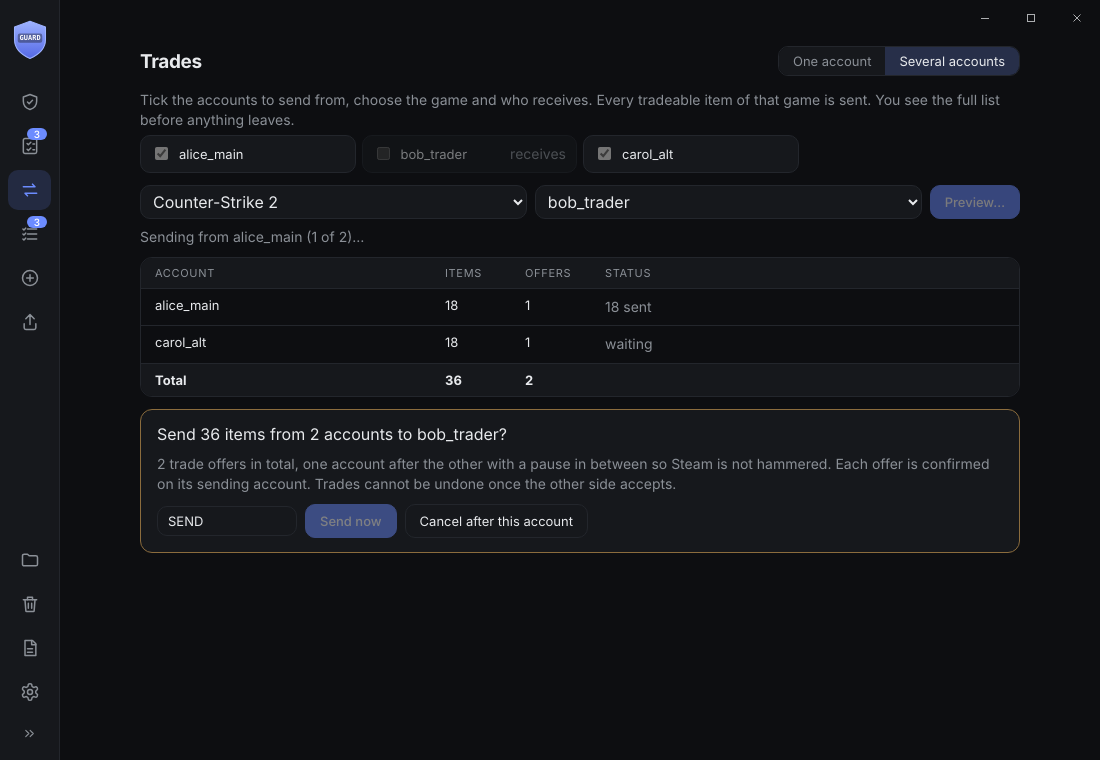
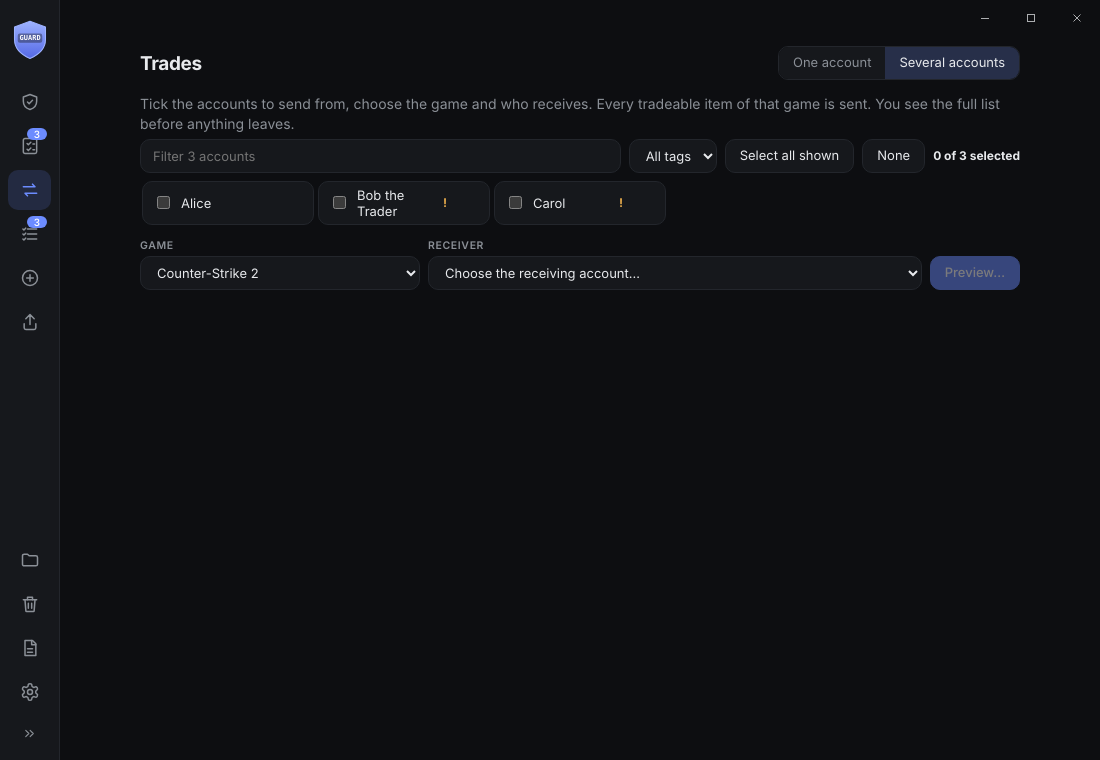
One control size everywhere, fix confirmations layout, new screenshots
Claude-Session: https://claude.ai/code/session_01DW1HzNu7DPUhuZ6F8TPH3n

diff --git a/src/renderer/style.css b/src/renderer/style.css
@@ -63,15 +63,12 @@ button:disabled { opacity: 0.45; cursor: default; }
 button:focus-visible, .row:focus-visible, input:focus-visible, select:focus-visible {
 	outline: 2px solid var(--accent); outline-offset: 2px;
 }
-.icon { width: 36px; height: 36px; border-radius: var(--radius); font-size: 18px; color: var(--muted); }
+.icon { border-radius: var(--radius); font-size: 18px; color: var(--muted); }
 .icon:hover:not(:disabled) { background: var(--surface); color: var(--text); }
 .link { color: var(--muted); font-size: 12px; }
 .link:hover { color: var(--text); text-decoration: underline; }
-.primary { background: var(--accent); color: #fff; padding: 12px 20px; border-radius: var(--radius); font-weight: 500; }
-.small {
-	padding: 8px 14px; border-radius: var(--radius); font-size: 13px;
-	border: 1px solid var(--line); background: var(--surface);
-}
+.primary { background: var(--accent); color: #fff; font-weight: 500; }
+.small { border: 1px solid var(--line); background: var(--surface); }
 .small:hover:not(:disabled) { border-color: var(--muted); }
 .small.primary { background: var(--accent); border-color: var(--accent); color: #fff; }
 .small.danger { color: var(--danger); }
@@ -163,7 +160,7 @@ button.flag { cursor: pointer; }
 /* detail */
 .profile { display: flex; align-items: center; gap: 12px; padding: 8px 0 4px; }
 .chips { display: flex; flex-wrap: wrap; gap: 6px; margin: 10px 0 4px; }
-.chip { padding: 8px 14px; background: var(--surface); font-size: 12px; border: 1px solid var(--line); border-radius: 999px; color: var(--muted); }
+.chip { background: var(--surface); border: 1px solid var(--line); color: var(--muted); }
 .chip:hover { color: var(--text); border-color: var(--muted); }
 .section-head { display: flex; align-items: center; justify-content: space-between; margin-top: 14px; }
 h2 { font-size: 11px; font-weight: 600; letter-spacing: 0.06em; text-transform: uppercase; color: var(--muted); margin: 14px 0 6px; }
@@ -199,10 +196,7 @@ h2 { font-size: 11px; font-weight: 600; letter-spacing: 0.06em; text-transform: 
 .folders li { display: flex; align-items: center; justify-content: space-between; gap: 6px; }
 .path { font-size: 12px; color: var(--muted); overflow: hidden; text-overflow: ellipsis; white-space: nowrap; direction: rtl; text-align: left; }
 .fine { margin-top: 14px; font-size: 12px; }
-select {
-	font: inherit; color: inherit; background: var(--surface);
-	border: 1px solid var(--line); border-radius: var(--radius); padding: 5px 8px;
-}
+select { font: inherit; color: inherit; background: var(--surface); border: 1px solid var(--line); }
 .switch {
 	position: relative; width: 36px; height: 20px; flex: none; border-radius: 999px;
 	background: var(--line); transition: background 0.15s;
@@ -255,7 +249,7 @@ input[type='password'], input[type='text'], textarea.lines {
 .filterbar[hidden] { display: none; }
 .search { width: 100%; }
 .filters { display: flex; gap: 6px; }
-.fchip { padding: 5px 12px; font-size: 13px; border: 1px solid var(--line); border-radius: 999px; color: var(--muted); background: var(--surface); }
+.fchip { border: 1px solid var(--line); color: var(--muted); background: var(--surface); }
 .fchip:hover { color: var(--text); }
 .fchip.on { background: var(--accent); border-color: var(--accent); color: #fff; }
 .center-text { text-align: center; margin-top: 24px; }
@@ -347,7 +341,7 @@ h2 { margin: 24px 0 10px; }
 .avatar.clickable:hover { outline: 2px solid var(--accent); }
 .acc-actions .hint { margin: 0 0 0 auto; }
 .seg-group { margin-left: auto; display: inline-flex; border: 1px solid var(--line); border-radius: 10px; overflow: hidden; flex: none; }
-.seg { background: var(--surface); color: var(--muted); border: 0; padding: 6px 10px; font-size: 14px; cursor: pointer; }
+.seg { background: var(--surface); color: var(--muted); border: 0; cursor: pointer; }
 .seg.on { background: color-mix(in srgb, var(--accent) 20%, var(--surface)); color: var(--text); }
 
 /* log */
@@ -438,7 +432,6 @@ label.f .hint.fine { margin: 0; font-size: 12px; }
 .update-note .row-actions { justify-content: flex-end; }
 
 .filter-line { display: flex; align-items: center; justify-content: space-between; gap: 10px; flex-wrap: wrap; }
-.filterbar select.sort { width: auto; font-size: 13px; padding: 5px 10px; border-radius: 999px; color: var(--muted); }
 
 /* menu icons, context menu, settings extras */
 .mini-row { display: flex; justify-content: flex-end; gap: 2px; padding: 4px 6px 0; }
@@ -513,41 +506,41 @@ button:active:not(:disabled) { transform: scale(.97); }
 
 /* ------------------------------------------------------------ settings tabs -- */
 .tabs { display: flex; flex-wrap: wrap; gap: 4px; padding: 4px; margin-bottom: 8px; background: var(--surface); border: 1px solid var(--line); border-radius: 12px; }
-.tab { padding: 6px 12px; border-radius: 8px; font-size: 13px; color: var(--muted); }
+.tab { border-radius: 7px; color: var(--muted); }
 .tab:hover { color: var(--text); background: var(--raised); }
 .tab.on { color: var(--text); background: color-mix(in srgb, var(--accent) 22%, var(--surface)); }
 .tab-page { animation: rise .22s cubic-bezier(.2,.7,.2,1); }
 .seg-group.text { margin-left: 0; }
-.seg-group.text .seg { font-size: 13px; padding: 6px 14px; }
+.seg-group.text .seg { padding: 0 14px; }
 
 /* -------------------------------------------------------------- send items -- */
 .send-bar { display: flex; gap: 8px; align-items: center; flex-wrap: wrap; margin-bottom: 8px; }
-.send-bar .search { flex: 1; min-width: 140px; }
-.items { display: grid; grid-template-columns: repeat(auto-fill, minmax(104px, 1fr)); gap: 8px; max-height: 46vh; overflow-y: auto; padding: 2px; margin: 6px 0 12px; }
-.item { position: relative; display: flex; flex-direction: column; align-items: center; gap: 4px; padding: 8px 6px 6px; background: var(--surface); border: 1px solid var(--line); border-radius: 10px; text-align: center; }
-.item:hover { border-color: color-mix(in srgb, var(--accent) 50%, var(--line)); }
-.item.on { border-color: var(--accent); background: color-mix(in srgb, var(--accent) 16%, var(--surface)); }
-.item.part { border-color: color-mix(in srgb, var(--accent) 55%, var(--line)); border-style: dashed; }
-.item img, .item .noimg { width: 64px; height: 48px; object-fit: contain; }
-.item .noimg { display: flex; align-items: center; justify-content: center; color: var(--muted); }
-.item .iname { font-size: 11px; line-height: 1.25; max-height: 2.5em; overflow: hidden; word-break: break-word; }
-.item .qty { position: absolute; top: 5px; right: 6px; font-size: 11px; font-weight: 650; padding: 1px 6px; border-radius: 999px; background: var(--bg); border: 1px solid var(--line); }
-.item.on::after { content: '✓'; position: absolute; top: 4px; left: 6px; font-size: 12px; color: var(--accent); }
+.send-bar .labelled input, .send-bar .labelled select, .send-to .labelled select { width: 100%; }
+.tiles { display: grid; grid-template-columns: repeat(auto-fill, minmax(104px, 1fr)); gap: 8px; max-height: 46vh; overflow-y: auto; padding: 2px; margin: 6px 0 12px; }
+.tile { position: relative; display: flex; flex-direction: column; align-items: center; gap: 4px; padding: 8px 6px 6px; background: var(--surface); border: 1px solid var(--line); border-radius: 10px; text-align: center; }
+.tile:hover { border-color: color-mix(in srgb, var(--accent) 50%, var(--line)); }
+.tile.on { border-color: var(--accent); background: color-mix(in srgb, var(--accent) 16%, var(--surface)); }
+.tile.part { border-color: color-mix(in srgb, var(--accent) 55%, var(--line)); border-style: dashed; }
+.tile img, .tile .noimg { width: 64px; height: 48px; object-fit: contain; }
+.tile .noimg { display: flex; align-items: center; justify-content: center; color: var(--muted); }
+.tile .iname { font-size: 11px; line-height: 1.25; max-height: 2.5em; overflow: hidden; word-break: break-word; }
+.tile .qty { position: absolute; top: 5px; right: 6px; font-size: 11px; font-weight: 650; padding: 1px 6px; border-radius: 999px; background: var(--bg); border: 1px solid var(--line); }
+.tile.on::after { content: '✓'; position: absolute; top: 4px; left: 6px; font-size: 12px; color: var(--accent); }
 .send-to { display: flex; gap: 8px; align-items: center; padding-top: 4px; }
-.send-to select { flex: 1; min-width: 0; }
+
 .send-count { min-width: 90px; font-size: 13px; }
 .link-box { display: flex; flex-direction: column; gap: 6px; margin-top: 8px; }
 .link-box[hidden], .send-confirm[hidden] { display: none; }
 .send-confirm { display: flex; flex-direction: column; gap: 10px; margin-top: 12px; padding: 14px 16px; background: var(--surface); border: 1px solid color-mix(in srgb, var(--warn) 55%, var(--line)); border-radius: 12px; animation: rise .2s ease-out; }
 .send-confirm p { margin: 0; }
 .confirm-actions { display: flex; align-items: center; gap: 8px; }
-.send-confirm .search.word { width: 140px; padding: 6px 10px; font-size: 13px; }
+.send-confirm .search.word { width: 140px; }
 .locked-box { margin-bottom: 12px; }
 .locked-box h2 { margin: 6px 0 8px; }
-.locked-box .items { max-height: 26vh; }
-.item.locked { opacity: .6; cursor: default; }
-.item.locked:hover { border-color: var(--line); }
-.item .until { font-size: 10.5px; color: var(--muted); }
+.locked-box .tiles { max-height: 26vh; }
+.tile.locked { opacity: .6; cursor: default; }
+.tile.locked:hover { border-color: var(--line); }
+.tile .until { font-size: 10.5px; color: var(--muted); }
 .send-result { margin-top: 10px; }
 .send-result .good { color: var(--ok, #4cc38a); }
 
@@ -561,7 +554,7 @@ button:active:not(:disabled) { transform: scale(.97); }
 .bulk-acc { display: flex; align-items: center; gap: 8px; padding: 5px 10px; background: var(--surface); border: 1px solid var(--line); border-radius: 10px; font-size: 13px; cursor: pointer; }
 .bulk-acc.off { opacity: .5; cursor: default; }
 .bulk-acc small { margin-left: auto; }
-.send-bar select { flex: 1; min-width: 160px; }
+.send-bar .labelled { min-width: 160px; }
 .bulk-table { margin-top: 10px; display: flex; flex-direction: column; border: 1px solid var(--line); border-radius: 12px; overflow-y: auto; max-height: 44vh; }
 .bulk-table:empty { display: none; }
 .bulk-row { display: grid; grid-template-columns: 1.4fr 70px 70px 2fr; gap: 10px; padding: 8px 14px; font-size: 13px; border-top: 1px solid var(--line); }
@@ -575,7 +568,7 @@ button:active:not(:disabled) { transform: scale(.97); }
 .send-bar { align-items: flex-end; }
 .send-to { align-items: flex-end; }
 .send-to .labelled { flex: 1; }
-.send-bar .labelled:first-child { flex: 0 0 auto; }
+.send-bar .labelled:first-child { flex: 0 1 280px; }
 .send-bar .labelled:nth-child(2) { flex: 1; }
 
 .bulk-acc .skip { margin-left: auto; width: 20px; height: 20px; display: inline-flex; align-items: center; justify-content: center; border-radius: 6px; color: var(--muted); opacity: 0; }
@@ -589,3 +582,20 @@ button:active:not(:disabled) { transform: scale(.97); }
 .bulk-acc .restricted { color: var(--warn); font-weight: 700; font-size: 12px; margin-left: auto; }
 .bulk-acc .restricted + .skip { margin-left: 4px; }
 .bulk-acc small + .restricted { margin-left: 6px; }
+
+/* ------------------------------------------------------------ controls -- */
+/* One size for everything you can click or type into, so rows of filters line up. */
+:root { --ctl: 34px; }
+input[type='text'], input[type='password'], select, .small, .primary, .chip, .fchip, .seg-group .seg, .icon {
+	height: var(--ctl); font-size: 13px; line-height: 1.2;
+}
+input[type='text'], input[type='password'], select { padding: 0 12px; border-radius: var(--radius); }
+select { padding-right: 8px; }
+.small, .primary, .chip, .fchip { display: inline-flex; align-items: center; justify-content: center; padding: 0 14px; border-radius: var(--radius); white-space: nowrap; }
+.seg-group { border-radius: var(--radius); }
+.seg-group .seg { height: calc(var(--ctl) - 2px); padding: 0 12px; display: inline-flex; align-items: center; }
+.icon { width: var(--ctl); }
+.tabs { padding: 3px; border-radius: var(--radius); }
+.tab { height: calc(var(--ctl) - 8px); padding: 0 12px; font-size: 13px; display: inline-flex; align-items: center; }
+.filterbar select.sort { width: auto; color: var(--muted); }
+.bulk-acc, .item-list-row { min-height: 30px; }

diff --git a/src/renderer/main.ts b/src/renderer/main.ts
@@ -2274,7 +2274,7 @@ async function tradesScreen(wanted?: string): Promise<void> {
 
 	const fromSel = el('select', { ariaLabel: 'Send from' }, ...acc.value.map((a) => el('option', { value: a.steamId, textContent: accountLabel(a.name, a.nickname), selected: a.steamId === id })));
 	fromSel.addEventListener('change', () => { if (!busy) void navigate({ name: 'trades', id: fromSel.value }); else fromSel.value = id; });
-	const grid = el('div', { class: 'items' });
+	const grid = el('div', { class: 'tiles' });
 	const lockedBox = el('div', { class: 'locked-box', hidden: true });
 	const info = el('p', { class: 'hint', textContent: '' });
 	const count = el('strong', { textContent: '0 selected' });
@@ -2340,7 +2340,7 @@ async function tradesScreen(wanted?: string): Promise<void> {
 				const some = !all && g.some((i) => picked.has(i.assetId));
 				const nameEl = el('span', { class: 'iname', textContent: first.name });
 				if (first.color) nameEl.style.color = `#${first.color}`;
-				const tile = el('button', { class: `item${all ? ' on' : some ? ' part' : ''}`, type: 'button', title: `${first.name}${first.type ? ` (${first.type})` : ''}`, ariaPressed: String(all), onclick: () => {
+				const tile = el('button', { class: `tile${all ? ' on' : some ? ' part' : ''}`, type: 'button', title: `${first.name}${first.type ? ` (${first.type})` : ''}`, ariaPressed: String(all), onclick: () => {
 					for (const i of g) (all ? picked.delete(i.assetId) : picked.add(i.assetId));
 					drawGrid();
 				} },
@@ -2364,10 +2364,10 @@ async function tradesScreen(wanted?: string): Promise<void> {
 		const total = locked.reduce((n, l) => n + l.count, 0);
 		lockedBox.replaceChildren(
 			el('h2', { textContent: `Not tradable right now (${total})` }),
-			el('div', { class: 'items' }, ...locked.map((l) => {
+			el('div', { class: 'tiles' }, ...locked.map((l) => {
 				const nameEl = el('span', { class: 'iname', textContent: l.name });
 				if (l.color) nameEl.style.color = `#${l.color}`;
-				const tile = el('div', { class: 'item locked', title: `${l.name}: ${when(l.until)}` },
+				const tile = el('div', { class: 'tile locked', title: `${l.name}: ${when(l.until)}` },
 					l.icon ? el('img', { src: itemImage(l.icon), alt: '', loading: 'lazy' }) : el('span', { class: 'noimg', textContent: '?' }),
 					nameEl,
 					el('span', { class: 'until', textContent: when(l.until) }));

diff --git a/src/main/index.ts b/src/main/index.ts
@@ -124,12 +124,13 @@ function str(v: unknown, what = 'value'): string {
 	return v;
 }
 /** Why Steam may refuse trades or the market for this account, as far as the profile page and the maFile tell. */
+/** Steam holds trades and listings for up to 15 days when the mobile authenticator has been on for less than this. */
 const NEW_AUTHENTICATOR_DAYS = 7;
 function restrictions(steamId: string): string[] {
 	const out: string[] = [];
-	if (avatars.limited(steamId)) out.push('Limited account (under $5 spent): Steam blocks the market and restricts trading and more until $5 has been spent');
+	if (avatars.limited(steamId)) out.push('Limited account (under $5 spent): no Community Market, and Steam Community items (cards, emoticons, backgrounds) cannot be traded out. Game items like CS2 can be traded normally');
 	const age = accounts.authenticatorDays(steamId);
-	if (age !== undefined && age < NEW_AUTHENTICATOR_DAYS) out.push(`The authenticator was added ${age === 0 ? 'today' : `${age} day${age === 1 ? '' : 's'} ago`}: Steam can hold trades and market listings for a new authenticator`);
+	if (age !== undefined && age < NEW_AUTHENTICATOR_DAYS) out.push(`The authenticator was added ${age === 0 ? 'today' : `${age} day${age === 1 ? '' : 's'} ago`}: in its first 7 days Steam can hold trades and market listings for up to 15 days. CS2 items are not held`);
 	return out;
 }
 function known(steamId: unknown): string {

diff --git a/CHANGELOG.md b/CHANGELOG.md
@@ -20,8 +20,9 @@
 - Trades, several accounts: tick the accounts to send from, choose the game and the receiver (the receiver is unticked automatically and can't be a sender). A preview lists, per account, how many items and offers there are and how many are still locked; after typing SEND the accounts are processed one after the other with a 5 second pause, each with live status. It stops on a rate-limit reply from Steam and can be cancelled after the current account. Leaving the tab also stops it.
 - Trades with many accounts: the sender list has a filter, a tag menu, "Select all shown" / "None" and a counter, and scrolls inside its own box; the preview table scrolls with a fixed header and total, lists accounts with items first and skips empty ones. Game, receiver and the other controls now have titles above them.
 - Trades: hover an account in the sender list and click the small crossed-circle to leave it out of "Select all shown" (remembered in `data/meta.json`; you can still tick it by hand).
-- Trading and market restrictions: an account that Steam marks as limited (under $5 spent, read from the profile page, also when an API key is used) or whose authenticator is less than 7 days old (from the maFile's server_time) gets a small coin icon in the list, a "Trading and market" section on its page, and a warning in the Trades tab (sender list and single-account view); trade bans and probation are included there too.
+- Trading and market restrictions: an account Steam marks as limited (under $5 spent; no Community Market and no trading of Steam Community items, game items like CS2 can still be traded) or whose authenticator is less than 7 days old (trades and market listings can be held up to 15 days; CS2 items are not held) gets a small coin icon in the list, a "Trading and market" section on its page, and a warning in the Trades tab (sender list and single-account view); trade bans and probation are included there too.
 - Log: a "Trades" filter shows every trade, with each offer's items in the details (count per item name), who sent to whom, and whether it was confirmed.
+- One control size everywhere: inputs, drop-downs, buttons, filter chips, tabs and switches share the same height and text size. Fixed the Confirmations list being squeezed after the trade tiles were added.
 - README screenshots redone for the new design, plus grid and settings.
 - Grid layout: roomier cards; name and login name stay together, status icons sit on their own line below them. Fixed the star overlapping the details arrow.
 
